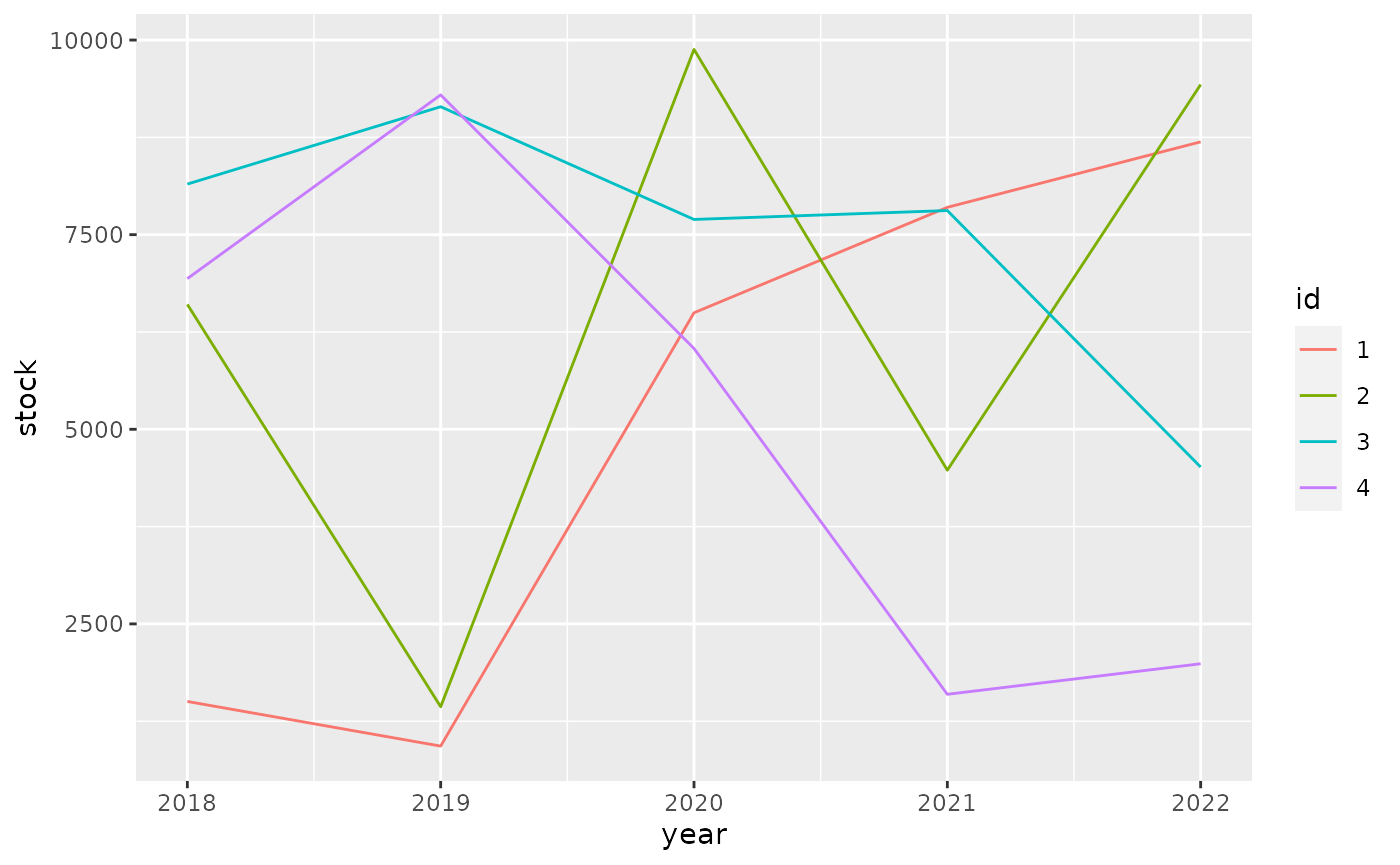
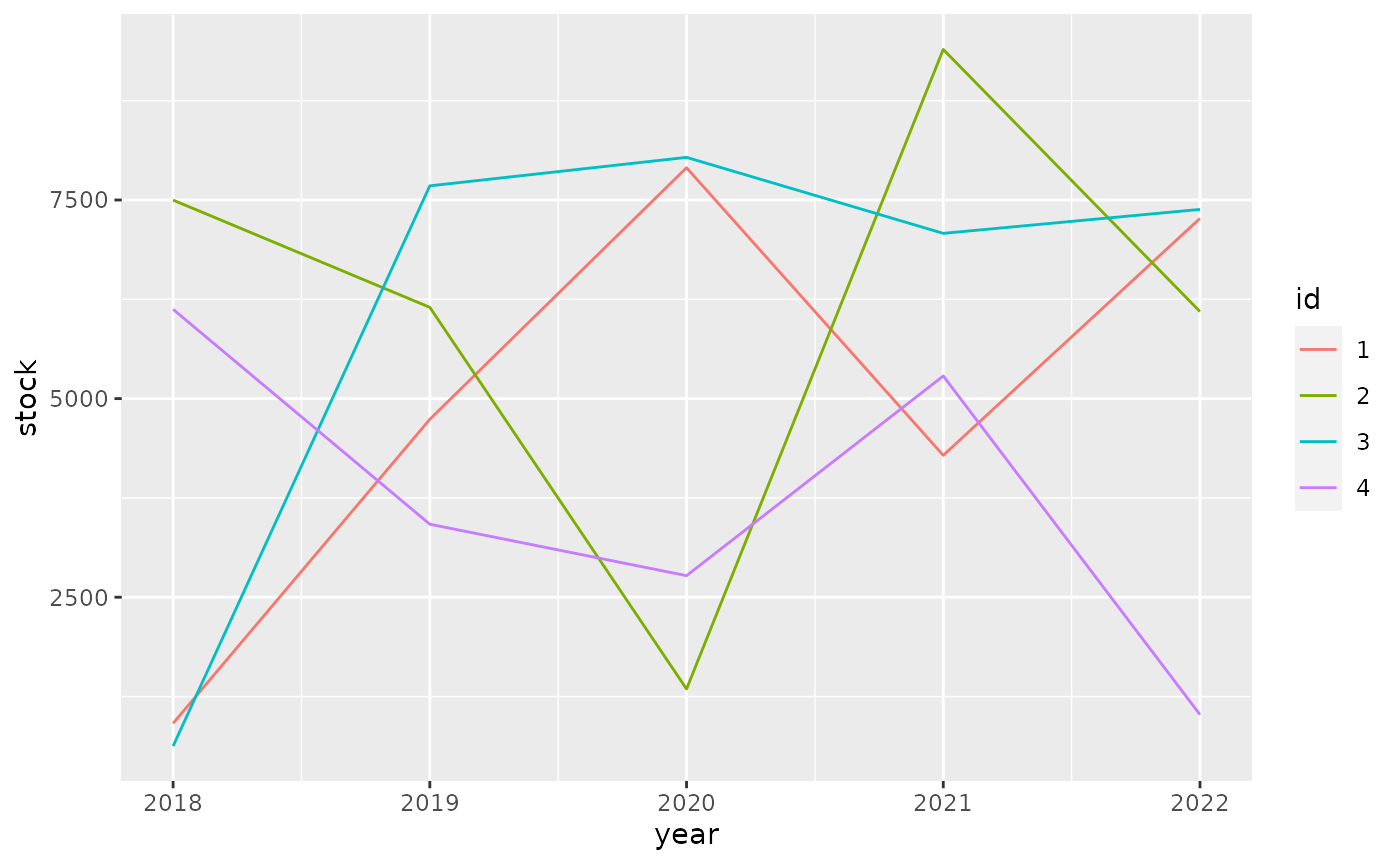
Built site for tibble: 3.0.5.9001@1c2accb

diff --git a/dev/articles/formats.html b/dev/articles/formats.html
@@ -220,10 +220,10 @@
 <span class="co">#&gt; # A tibble: 4 x 6</span>
 <span class="co">#&gt;   id       `2018`    `2019`    `2020`    `2021`    `2022`</span>
 <span class="co">#&gt;   &lt;fct&gt; &lt;dbl:fmt&gt; &lt;dbl:fmt&gt; &lt;dbl:fmt&gt; &lt;dbl:fmt&gt; &lt;dbl:fmt&gt;</span>
-<span class="co">#&gt; 1 1     $1,503.71   $930.32 $6,496.53 $7,851.09 $8,692.23</span>
-<span class="co">#&gt; 2 2     $6,604.47 $1,435.61 $9,879.27 $4,474.58 $9,428.02</span>
-<span class="co">#&gt; 3 3     $8,149.73 $9,143.56 $7,695.47 $7,809.71 $4,514.85</span>
-<span class="co">#&gt; 4 4     $6,935.14 $9,295.32 $6,037.68 $1,595.75 $1,987.85</span></code></pre></div>
+<span class="co">#&gt; 1 1       $912.39 $4,739.58 $7,906.34 $4,286.04 $7,268.39</span>
+<span class="co">#&gt; 2 2     $7,498.91 $6,149.00 $1,345.11 $9,395.10 $6,095.56</span>
+<span class="co">#&gt; 3 3       $626.01 $7,678.24 $8,036.66 $7,080.24 $7,381.60</span>
+<span class="co">#&gt; 4 4     $6,123.78 $3,418.93 $2,771.45 $5,284.92 $1,022.36</span></code></pre></div>
 <p>For ggplot2 we need to do <a href="https://github.com/tidyverse/ggplot2/pull/4065">some work</a> to show apply the formatting to the scales.</p>
 <div class="sourceCode" id="cb6"><pre class="downlit sourceCode r">
 <code class="sourceCode R"><span class="kw"><a href="https://rdrr.io/r/base/library.html">library</a></span><span class="op">(</span><span class="va"><a href="https://ggplot2.tidyverse.org">ggplot2</a></span><span class="op">)</span>
@@ -234,10 +234,10 @@
   <span class="fu"><a href="https://ggplot2.tidyverse.org/reference/geom_path.html">geom_line</a></span><span class="op">(</span><span class="op">)</span></code></pre></div>
 <p><img src="formats_files/figure-html/unnamed-chunk-7-1.png" width="700"></p>
 <p>It pays off to specify formatting very early in the process. The diagram below shows the principal stages of data analysis and exploration from “R for data science”.</p>
-<div id="htmlwidget-187a70adc67721cb8c26" style="width:700px;height:432.632880098888px;" class="DiagrammeR html-widget"></div>
-<script type="application/json" data-for="htmlwidget-187a70adc67721cb8c26">{"x":{"diagram":"graph TD\n  Import --> Tidy\n  Tidy --> Transform\n  Transform --> Visualize\n  Visualize --> Communicate\n  Visualize --> Model\n  Model -.-> Transform"},"evals":[],"jsHooks":[]}</script><p>The subsequent diagram adds data formats, communication options, and explicit data formatting. The original r4ds transitions are highlighted in bold. There are two principal options where to apply formatting for results: right before communicating them, or right after importing.</p>
-<div id="htmlwidget-19e326dc2c0c7d1e0e33" style="width:700px;height:432.632880098888px;" class="DiagrammeR html-widget"></div>
-<script type="application/json" data-for="htmlwidget-19e326dc2c0c7d1e0e33">{"x":{"diagram":"graph TD\n  .csv --> Import\n  API --> Import\n  DBI --> Import\n  dbplyr --> Import\n  Import -.-> Format[Format for analysis]\n  Format -.-> Tidy\n\n  subgraph r4ds\n  Import ==> Tidy\n  Tidy ==> Transform\n  Transform ==> Visualize\n  Visualize ==> Model\n  Model -.-> Transform\n  Visualize ==> Communicate\n  end\n\n  Visualize -.-> FormatComm[Format for communication]\n  FormatComm -.-> Communicate\n\n  FormatComm -- Apply formatting early --> Format\n\n  dbplyr -.-> Tidy\n  dbplyr -.-> Transform\n  dbplyr -.-> Visualize\n\n  Communicate --> gt\n  Communicate --> ggplot2\n  Communicate --> DT\n  Communicate --> plotly"},"evals":[],"jsHooks":[]}</script><p>Applying formatting early in the process gives the added benefit of showing the data in a useful format during the “Tidy”, “Transform”, and “Visualize” stages. For this to be useful, we need to ensure that the formatting options applied early:</p>
+<div id="htmlwidget-c4b7eccab2e2ede24471" style="width:700px;height:432.632880098888px;" class="DiagrammeR html-widget"></div>
+<script type="application/json" data-for="htmlwidget-c4b7eccab2e2ede24471">{"x":{"diagram":"graph TD\n  Import --> Tidy\n  Tidy --> Transform\n  Transform --> Visualize\n  Visualize --> Communicate\n  Visualize --> Model\n  Model -.-> Transform"},"evals":[],"jsHooks":[]}</script><p>The subsequent diagram adds data formats, communication options, and explicit data formatting. The original r4ds transitions are highlighted in bold. There are two principal options where to apply formatting for results: right before communicating them, or right after importing.</p>
+<div id="htmlwidget-17dfde86877e81657ad9" style="width:700px;height:432.632880098888px;" class="DiagrammeR html-widget"></div>
+<script type="application/json" data-for="htmlwidget-17dfde86877e81657ad9">{"x":{"diagram":"graph TD\n  .csv --> Import\n  API --> Import\n  DBI --> Import\n  dbplyr --> Import\n  Import -.-> Format[Format for analysis]\n  Format -.-> Tidy\n\n  subgraph r4ds\n  Import ==> Tidy\n  Tidy ==> Transform\n  Transform ==> Visualize\n  Visualize ==> Model\n  Model -.-> Transform\n  Visualize ==> Communicate\n  end\n\n  Visualize -.-> FormatComm[Format for communication]\n  FormatComm -.-> Communicate\n\n  FormatComm -- Apply formatting early --> Format\n\n  dbplyr -.-> Tidy\n  dbplyr -.-> Transform\n  dbplyr -.-> Visualize\n\n  Communicate --> gt\n  Communicate --> ggplot2\n  Communicate --> DT\n  Communicate --> plotly"},"evals":[],"jsHooks":[]}</script><p>Applying formatting early in the process gives the added benefit of showing the data in a useful format during the “Tidy”, “Transform”, and “Visualize” stages. For this to be useful, we need to ensure that the formatting options applied early:</p>
 <ul>
 <li>give a good user experience for analysis
 <ul>

diff --git a/dev/articles/types.html b/dev/articles/types.html
@@ -349,8 +349,8 @@
 #&gt; $ `named list`  &lt;named list&gt; [1]
 #&gt; $ factor        &lt;fct&gt; A
 #&gt; $ ordered       &lt;ord&gt; a
-#&gt; $ Date          &lt;date&gt; 2021-01-09
-#&gt; $ POSIXt        &lt;dttm&gt; 2021-01-09 03:40:15
+#&gt; $ Date          &lt;date&gt; 2021-01-12
+#&gt; $ POSIXt        &lt;dttm&gt; 2021-01-12 16:43:31
 #&gt; $ difftime      &lt;drtn&gt; 1 secs
 #&gt; $ hms           &lt;time&gt; 00:00:01
 #&gt; $ integer64     &lt;int64&gt; 10000000000
@@ -380,7 +380,7 @@
 <span class="co">#&gt;             "sym"</span>
 <span class="co">#&gt;         }, typeof(x))</span>
 <span class="co">#&gt; }</span>
-<span class="co">#&gt; &lt;bytecode: 0x5583c57bdb80&gt;</span>
+<span class="co">#&gt; &lt;bytecode: 0x564f46e4bda8&gt;</span>
 <span class="co">#&gt; &lt;environment: namespace:pillar&gt;</span></code></pre></div>
 </div>
   </div>
